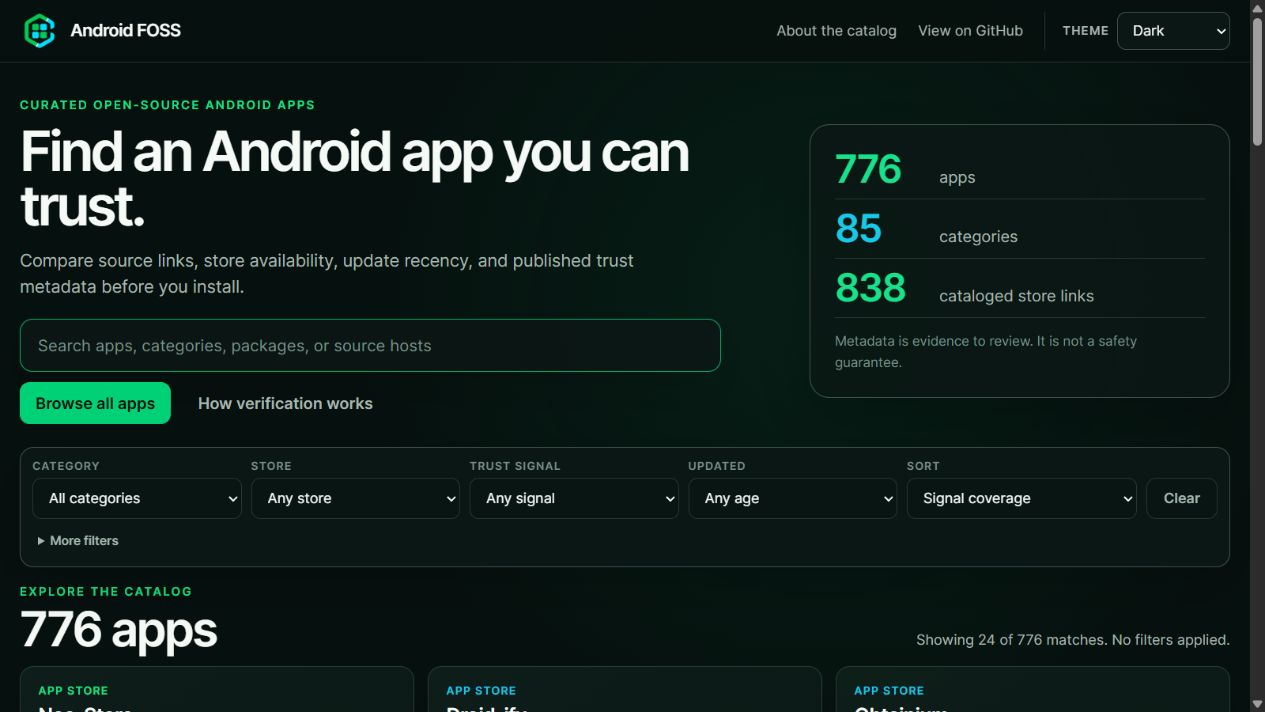
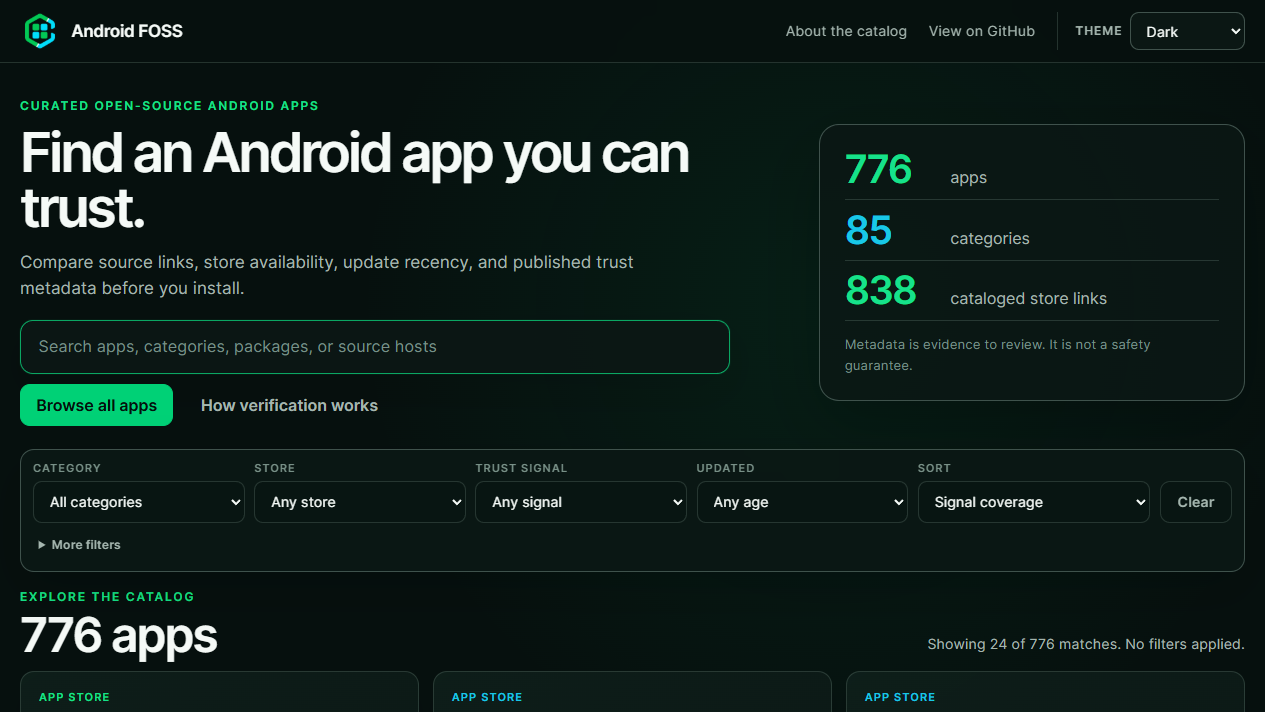
Preserve Android FOSS brand exploration

diff --git a/index.html b/index.html
@@ -210,7 +210,7 @@
 
 	<footer class="site-footer">
 		<div class="shell footer-inner">
-			<p>Android FOSS v0.0.14. Free and open-source under GPLv3.</p>
+			<p>Android FOSS v0.0.15. Free and open-source under GPLv3.</p>
 			<a href="https://github.com/SysAdminDoc/android-foss">Contribute on GitHub</a>
 		</div>
 	</footer>

diff --git a/assets/app.js b/assets/app.js
@@ -1,7 +1,7 @@
 (() => {
 	'use strict';
 
-	const APP_VERSION = '0.0.14';
+	const APP_VERSION = '0.0.15';
 	const PAGE_SIZE = 24;
 	const formatter = new Intl.NumberFormat();
 	const compactFormatter = new Intl.NumberFormat(undefined, {

diff --git a/sw.js b/sw.js
@@ -1,4 +1,4 @@
-const CACHE_NAME = 'android-foss-v0.0.14';
+const CACHE_NAME = 'android-foss-v0.0.15';
 const CORE_ASSETS = [
 	'./',
 	'index.html',

diff --git a/test_frontend.py b/test_frontend.py
@@ -6,7 +6,7 @@ from pathlib import Path
 
 
 ROOT = Path(__file__).resolve().parent
-VERSION = "0.0.14"
+VERSION = "0.0.15"
 
 
 class AssetParser(HTMLParser):
@@ -56,6 +56,22 @@ class FrontendTests(unittest.TestCase):
         self.assertEqual((192, 192), png_size(icon_sizes["192x192"]))
         self.assertEqual((512, 512), png_size(icon_sizes["512x512"]))
         self.assertEqual((1024, 1024), png_size(ROOT / "assets/brand/android-foss-mark.png"))
+
+    def test_brand_archive_preserves_selected_direction(self):
+        concepts = ROOT / "assets" / "brand" / "concepts"
+        selection = json.loads((concepts / "selection.json").read_text(encoding="utf-8"))
+        selected = concepts / selection["selectedConcepts"][0]
+        master = ROOT / "assets" / "brand" / "android-foss-selected-master.png"
+        supporting = concepts / selection["selectedSupportingConcepts"][0]
+        self.assertEqual(selected.read_bytes(), master.read_bytes())
+        self.assertTrue(supporting.is_file())
+        self.assertGreaterEqual(len(list(concepts.glob("direction-*.png"))), 4)
+
+    def test_marketing_screenshots_are_full_resolution_pngs(self):
+        screenshots = ROOT / "assets" / "screenshots"
+        for name in ("catalog-home.png", "catalog-search.png", "catalog-light.png"):
+            path = screenshots / name
+            self.assertEqual((1265, 712), png_size(path))
 
     def test_version_strings_match(self):
         readme = (ROOT / "README.md").read_text(encoding="utf-8")

diff --git a/build_release.py b/build_release.py
@@ -6,7 +6,7 @@ from pathlib import Path
 
 
 ROOT = Path(__file__).resolve().parent
-VERSION = "0.0.14"
+VERSION = "0.0.15"
 DIST = ROOT / "dist"
 ARCHIVE = DIST / f"android-foss-v{VERSION}.zip"
 CHECKSUM = DIST / f"android-foss-v{VERSION}.zip.sha256"
@@ -35,7 +35,7 @@ def write_archive(files):
     with zipfile.ZipFile(ARCHIVE, "w", compression=zipfile.ZIP_DEFLATED, compresslevel=9) as archive:
         for path in files:
             relative = path.relative_to(ROOT).as_posix()
-            info = zipfile.ZipInfo(relative, date_time=(2026, 9, 6, 0, 0, 0))
+            info = zipfile.ZipInfo(relative, date_time=(2026, 9, 7, 0, 0, 0))
             info.compress_type = zipfile.ZIP_DEFLATED
             info.external_attr = 0o100644 << 16
             archive.writestr(info, path.read_bytes(), compresslevel=9)

diff --git a/README.md b/README.md
@@ -6,7 +6,7 @@
 
 <p align="center"><strong>Find open-source Android apps with the evidence you need to choose well.</strong></p>
 
-[![Version](https://img.shields.io/badge/version-0.0.14-blue.svg)](CHANGELOG.md)
+[![Version](https://img.shields.io/badge/version-0.0.15-blue.svg)](CHANGELOG.md)
 [![License](https://img.shields.io/badge/license-GPLv3-yellow.svg)](LICENSE)
 [![Platform](https://img.shields.io/badge/platform-Android-3ddc84.svg)](https://www.android.com/)
 
@@ -1212,6 +1212,10 @@ Sources: [Android developer verification](https://developer.android.com/develope
 * [**IzzyOnDroid F-Droid Repository**](https://apt.izzysoft.de/fdroid/) / [**IzzyOnDroid Website**](https://izzyondroid.org/)
 * [**List of free and open-source Android applications**](https://en.wikipedia.org/wiki/List_of_free_and_open-source_Android_applications)
 * [**OpenApk**](https://github.com/mobilenetworkltd/openapk)
+
+## Brand assets
+
+The modular catalog mark is the approved Android FOSS identity. The [untouched master](assets/brand/android-foss-selected-master.png) and [original concept archive](assets/brand/concepts/) are kept in the repository, with the chosen direction recorded in [selection.json](assets/brand/concepts/selection.json). The archive also includes the supporting product composition and the alternate directions reviewed during development.
 
 ## Local validation
 

diff --git a/RESEARCH.md b/RESEARCH.md
@@ -1,6 +1,6 @@
 # Research: Android FOSS
 
-Updated for Android FOSS v0.0.14 on September 6, 2026.
+Updated for Android FOSS v0.0.15 on September 7, 2026.
 
 ## Product position
 
@@ -35,6 +35,12 @@ Commercial stores also shape user expectations around version history, signing c
 - Local checks cover catalog structure, ordering, changed-entry acceptance, source health, generated metadata, and frontend behavior.
 
 The browser defaults to the strongest available signal coverage instead of star count. Stars can help discovery, but they don't prove privacy, maintenance quality, or security.
+
+## Brand direction
+
+The approved identity is the modular catalog hex. Its Android green palette and grid structure remain recognizable at favicon size without falling back to a generic robot or code-bracket symbol. The untouched selected master now lives beside the production mark, while the original alternatives and supporting catalog composition remain available in `assets/brand/concepts/`.
+
+The code-heavy shield and ring studies were not selected because their meaning softens at small sizes. The catalog composition remains useful for larger marketing placements, but it is too detailed to replace the primary mark.
 
 ## Reliability and privacy decisions
 

diff --git a/CHANGELOG.md b/CHANGELOG.md
@@ -1,5 +1,10 @@
 # Changelog
 
+## Android FOSS v0.0.15 (2026-09-07)
+
+- Preserved the approved modular catalog mark, untouched source master, supporting composition, and alternate identity studies in a documented brand archive.
+- Added automated archive and screenshot integrity checks, refreshed the verified product captures, and rebuilt the deterministic release package.
+
 ## Android FOSS v0.0.14 (2026-09-06)
 
 - Rebuilt the browser around the 776-entry catalog data, with accurate counts and focused app cards instead of a rendered README wall.
